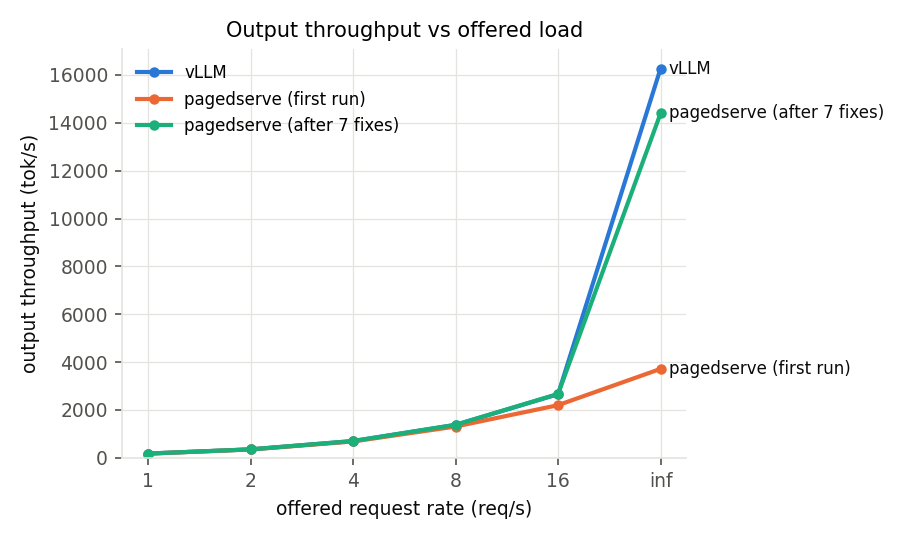
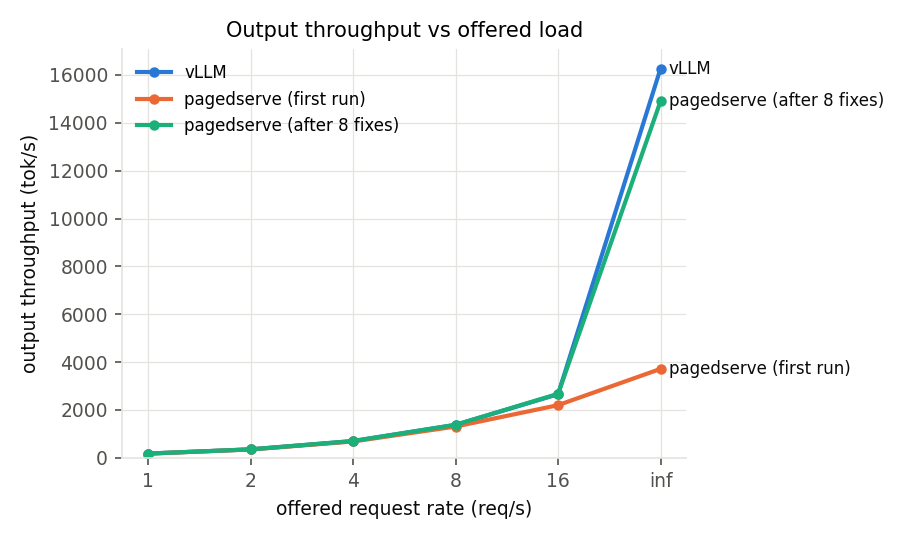
v8 is the default: piecewise CUDA graphs on whenever CUDA graphs are, chunked prefill on at every size with them (eager mixed steps keep the 4 GB rule); Runpod handler mirrors it. README: 14,904 tok/s = 92% of vLLM with lower TPOT and TTFT than vLLM at every offered rate, v8 row in the fix table (ei
Claude-Session: https://claude.ai/code/session_01JS2Me66WkkvXnWKiASyDpV

Changed region(s): [[0.6533, 0.1778, 0.9956, 0.563], [0.6222, 0.5926, 0.6533, 0.6519], [0.3733, 0.2074, 0.4044, 0.237]]

diff --git a/pagedserve/cli.py b/pagedserve/cli.py
@@ -25,16 +25,19 @@ def _add_engine_args(p: argparse.ArgumentParser) -> None:
     p.add_argument("--max-model-len", type=int, default=4096)
     p.add_argument("--enable-prefix-caching", action="store_true")
     p.add_argument("--enable-cuda-graphs", action="store_true")
-    p.add_argument("--piecewise-cuda-graphs", action="store_true",
+    p.add_argument("--piecewise-cuda-graphs", dest="piecewise_cuda_graphs", action="store_true",
+                   default=None,
                    help="also replay prefill / mixed (chunked-prefill) steps from per-layer graphs "
-                        "with attention run eagerly between them (needs --enable-cuda-graphs)")
+                        "with attention run eagerly between them. Default: on whenever "
+                        "--enable-cuda-graphs is (A100, 0.5B: chunked prefill went from -11%% to "
+                        "+4%% at saturation, TTFT at 1 req/s 20 -> 9 ms)")
+    p.add_argument("--no-piecewise-cuda-graphs", dest="piecewise_cuda_graphs", action="store_false")
     p.add_argument("--enable-chunked-prefill", dest="enable_chunked_prefill", action="store_true",
                    default=None,
                    help="mix decode tokens and prompt chunks in every step; --max-num-batched-tokens "
-                        "becomes the per-step cap. Default: on for --device cuda when the checkpoint "
-                        "is >= 4 GB (about 2B params; +8%% at 7B), off below that (mixed steps run "
-                        "eagerly, and at 0.5B that cost 11%% at saturation); 2048-token cap unless "
-                        "--max-num-batched-tokens is given")
+                        "becomes the per-step cap. Default: on for --device cuda (with piecewise CUDA "
+                        "graphs it wins at every model size measured: +8%% at 7B, +4%% at 0.5B), off "
+                        "otherwise; 2048-token cap unless --max-num-batched-tokens is given")
     p.add_argument("--no-chunked-prefill", dest="enable_chunked_prefill", action="store_false")
     p.add_argument("--async-scheduling", dest="async_scheduling", action="store_true", default=None,
                    help="launch step N+1 before reading step N's tokens back (vLLM v1 style): the "
@@ -43,9 +46,6 @@ def _add_engine_args(p: argparse.ArgumentParser) -> None:
                         "token. Default: on for --device cuda (A100: 0.5B saturation 13,945 -> "
                         "14,394 tok/s, TPOT at 1 req/s 2.1 -> 1.8 ms), off otherwise")
     p.add_argument("--no-async-scheduling", dest="async_scheduling", action="store_false")
-
-
-CHUNKED_PREFILL_MIN_BYTES = 4 * 1024 ** 3  # checkpoint size above which chunked prefill is the default
 
 
 def checkpoint_bytes(model_dir: str | None) -> int:
@@ -60,12 +60,16 @@ def checkpoint_bytes(model_dir: str | None) -> int:
 
 def engine_config_from_args(args: argparse.Namespace) -> EngineConfig:
     cuda = args.device.startswith("cuda")
+    piecewise = args.piecewise_cuda_graphs
+    if piecewise is None:
+        piecewise = bool(args.enable_cuda_graphs)
     chunked = args.enable_chunked_prefill
     if chunked is None:
-        # Mixed steps run eagerly (no CUDA graphs), so chunked prefill pays only when a
-        # prefill is expensive next to a decode step: measured +8% at 7B (3,092 vs 2,859
-        # tok/s at saturation) and -11% at 0.5B (12,786 vs 14,394) on the A100.
-        chunked = cuda and checkpoint_bytes(args.model) >= CHUNKED_PREFILL_MIN_BYTES
+        # With piecewise graphs a mixed step replays from graphs too, and chunked prefill
+        # wins at every size measured on the A100 (7B: +8%; 0.5B: +4% and half the TTFT).
+        # Without them mixed steps run eagerly, which cost 11% at 0.5B; then it is only
+        # worth it from a few billion parameters up.
+        chunked = cuda and (piecewise or checkpoint_bytes(args.model) >= 4 * 1024 ** 3)
     budget = args.max_num_batched_tokens
     if budget is None:
         budget = 2048 if chunked else 8192
@@ -80,7 +84,7 @@ def engine_config_from_args(args: argparse.Namespace) -> EngineConfig:
                         max_model_len=args.max_model_len, attn_backend=args.attn_backend,
                         enable_prefix_caching=args.enable_prefix_caching,
                         enable_cuda_graphs=args.enable_cuda_graphs,
-                        piecewise_cuda_graphs=bool(getattr(args, "piecewise_cuda_graphs", False)),
+                        piecewise_cuda_graphs=bool(piecewise),
                         enable_chunked_prefill=chunked,
                         async_scheduling=bool(async_sched))
 

diff --git a/deploy/runpod/handler.py b/deploy/runpod/handler.py
@@ -17,8 +17,8 @@ the chunks aggregated (`return_aggregate_stream`).
 Environment (all optional): MODEL_DIR (a snapshot baked into the image; default
 /models/model), MODEL_REPO (download at cold start instead), DTYPE (float16), ATTN_BACKEND
 (paged_flash), BLOCK_SIZE (256), MAX_MODEL_LEN (4096), MAX_NUM_SEQS (256), CUDA_GRAPHS (1),
-CHUNKED_PREFILL (default: on for checkpoints >= 4 GB), ASYNC_SCHEDULING (1), MAX_CONCURRENCY
-(jobs per worker, 64).
+PIECEWISE_CUDA_GRAPHS (1), CHUNKED_PREFILL (default: on with piecewise graphs),
+ASYNC_SCHEDULING (1), MAX_CONCURRENCY (jobs per worker, 64).
 """
 
 from __future__ import annotations
@@ -39,21 +39,18 @@ def env(name: str, default: str) -> str:
 
 
 def engine_config(model_dir: str | None = None) -> EngineConfig:
-    """Same defaults as `pagedserve serve --device cuda`: async scheduling on, chunked
-    prefill on for checkpoints >= 4 GB (CHUNKED_PREFILL=0/1 forces it)."""
-    from pagedserve.cli import CHUNKED_PREFILL_MIN_BYTES, checkpoint_bytes
-
+    """Same defaults as `pagedserve serve --device cuda`: CUDA graphs (full-step for decode,
+    piecewise for prefill / mixed steps), chunked prefill, async scheduling."""
+    graphs = env("CUDA_GRAPHS", "1") == "1"
+    piecewise = env("PIECEWISE_CUDA_GRAPHS", "1") == "1" and graphs
     forced = os.environ.get("CHUNKED_PREFILL")
-    if forced is not None:
-        chunked = forced == "1"
-    else:
-        chunked = checkpoint_bytes(model_dir) >= CHUNKED_PREFILL_MIN_BYTES
+    chunked = forced == "1" if forced is not None else piecewise
     return EngineConfig(
         device="cuda", dtype=EngineConfig.dtype_from_str(env("DTYPE", "float16")),
         attn_backend=env("ATTN_BACKEND", "paged_flash"), block_size=int(env("BLOCK_SIZE", "256")),
         max_model_len=int(env("MAX_MODEL_LEN", "4096")), max_num_seqs=int(env("MAX_NUM_SEQS", "256")),
         max_num_batched_tokens=2048 if chunked else 8192, enable_chunked_prefill=chunked,
-        enable_cuda_graphs=env("CUDA_GRAPHS", "1") == "1",
+        enable_cuda_graphs=graphs, piecewise_cuda_graphs=piecewise,
         async_scheduling=env("ASYNC_SCHEDULING", "1") == "1")
 
 

diff --git a/tests/test_server.py b/tests/test_server.py
@@ -309,13 +309,21 @@ def test_cli_defaults_by_device_and_checkpoint_size(tmp_path):
         return engine_config_from_args(build_parser().parse_args(["serve", "--model", str(tmp_path), *extra]))
 
     (tmp_path / "model.safetensors").write_bytes(b"\0" * 1024)  # a tiny checkpoint
+    # CUDA + graphs: piecewise graphs on, hence chunked prefill on at any size
+    c = cfg("--device", "cuda", "--enable-cuda-graphs")
+    assert c.async_scheduling and c.piecewise_cuda_graphs and c.enable_chunked_prefill
+    assert c.max_num_batched_tokens == 2048
+    # CUDA without graphs: mixed steps would run eagerly, so a tiny checkpoint stays prefill-priority
     c = cfg("--device", "cuda")
-    assert c.async_scheduling and not c.enable_chunked_prefill and c.max_num_batched_tokens == 8192
+    assert c.async_scheduling and not c.piecewise_cuda_graphs and not c.enable_chunked_prefill
+    assert c.max_num_batched_tokens == 8192
     c = cfg("--device", "cpu")
-    assert not c.async_scheduling and not c.enable_chunked_prefill
-    c = cfg("--device", "cuda", "--enable-chunked-prefill", "--no-async-scheduling")
-    assert c.enable_chunked_prefill and c.max_num_batched_tokens == 2048 and not c.async_scheduling
-    # a big checkpoint (sparse file: size without the bytes) turns chunked prefill on
+    assert not c.async_scheduling and not c.enable_chunked_prefill and not c.piecewise_cuda_graphs
+    c = cfg("--device", "cuda", "--enable-cuda-graphs", "--no-piecewise-cuda-graphs", "--no-async-scheduling")
+    assert not c.piecewise_cuda_graphs and not c.enable_chunked_prefill and not c.async_scheduling
+    c = cfg("--device", "cuda", "--enable-chunked-prefill")
+    assert c.enable_chunked_prefill and c.max_num_batched_tokens == 2048
+    # a big checkpoint (sparse file: size without the bytes) turns chunked prefill on even eagerly
     big = tmp_path / "model-00002.safetensors"
     with open(big, "wb") as f:
         f.truncate(5 * 1024 ** 3)

diff --git a/tests/test_runpod_handler.py b/tests/test_runpod_handler.py
@@ -64,6 +64,7 @@ def test_sampling_params_mapping() -> None:
                                  "seed": 7, "stop": "END", "stop_token_ids": [3], "ignore_eos": True})
     assert (sp.max_tokens, sp.temperature, sp.top_p, sp.top_k, sp.seed) == (5, 0.5, 0.9, 40, 7)
     assert sp.stop == ["END"] and sp.stop_token_ids == [3] and sp.ignore_eos
-    cfg = mod.engine_config(None)  # no checkpoint -> small-model defaults
+    cfg = mod.engine_config(None)
     assert cfg.device == "cuda" and cfg.attn_backend == "paged_flash"
-    assert cfg.async_scheduling and not cfg.enable_chunked_prefill
+    assert cfg.async_scheduling and cfg.enable_cuda_graphs and cfg.piecewise_cuda_graphs
+    assert cfg.enable_chunked_prefill

diff --git a/README.md b/README.md
@@ -33,22 +33,22 @@ output median 131), seed 0, same trace for every row. Raw files in `results/`.
 | | RTX 4090 | A100 SXM 80 GB |
 |---|---:|---:|
 | naive per-sequence cache, 8 req/s | 343 tok/s | |
-| paged_flash + CUDA graphs, 8 req/s | 1,441 tok/s, TPOT p50 3.8 ms | 1,380 tok/s, TPOT p50 2.2 ms (HTTP) |
-| paged_flash + CUDA graphs, all 200 at t=0 | 5,459 tok/s (in-process) | **14,394 tok/s** (HTTP, engine process + async scheduling) |
+| paged_flash + CUDA graphs, 8 req/s | 1,441 tok/s, TPOT p50 3.8 ms | 1,381 tok/s, TPOT p50 2.0 ms (HTTP) |
+| paged_flash + CUDA graphs, all 200 at t=0 | 5,459 tok/s (in-process) | **14,904 tok/s** (HTTP, engine process, async scheduling, chunked prefill on piecewise graphs) |
 | vLLM, same trace, same GPU, 8 req/s | | 1,377 tok/s, TPOT p50 2.1 ms |
 | vLLM, all 200 at t=0 | | 16,269 tok/s |
 | Triton decode kernel vs flash-attn, B=128 / ctx 2048 | 4.2x slower (first version) | **1.16x** slower (835 vs 972 GB/s) |
 | KV-cache slot utilization, block 16 vs 256 | | **98% vs 76%** |
 
-Against vLLM on the A100 with Qwen2.5-0.5B: throughput parity to 16 req/s (100%), TPOT
-*below* vLLM's at 1 req/s (1.8 vs 2.0 ms) and at saturation (6.6 vs 8.1 ms), 88% of its
-saturation throughput, up from 23% at the first measurement the same night. At 7B
-(Qwen2.5-7B-Instruct) both engines sit on the weight-read floor and pagedserve reaches 97%
-of vLLM at saturation once chunked prefill is on; DeepSeek-R1-Distill-Llama-8B runs on the
-same code, and Moonlight-16B-A3B (DeepSeek-V3's latent attention + MoE) reaches 84% with a
-batch-1 step of 6.2 ms against vLLM's 7.1 ms TPOT. The [gap analysis](#the-gap-against-vllm)
-has the per-phase profile and the seven fixes it drove, in order; [Models](#models) has the
-per-model table.
+Against vLLM on the A100 with Qwen2.5-0.5B: throughput parity to 16 req/s (100%), lower
+latency than vLLM at every offered rate (TPOT 1.8 vs 2.0 ms and TTFT 9.4 vs 12.9 ms at
+1 req/s; TPOT 6.0 vs 8.1 ms at saturation), 92% of its saturation throughput, up from 23% at
+the first measurement the same night. At 7B (Qwen2.5-7B-Instruct) both engines sit on the
+weight-read floor and pagedserve reaches 97% of vLLM at saturation once chunked prefill is
+on; DeepSeek-R1-Distill-Llama-8B runs on the same code, and Moonlight-16B-A3B (DeepSeek-V3's
+latent attention + MoE) reaches 84% with a batch-1 step of 6.2 ms against vLLM's 7.1 ms
+TPOT. The [gap analysis](#the-gap-against-vllm) has the per-phase profile and the eight
+fixes it drove, in order; [Models](#models) has the per-model table.
 
 ## How it works
 
@@ -82,8 +82,8 @@ blocks, the youngest running request is preempted by recompute (blocks freed,
 `num_computed_tokens` reset, back to the front of the queue). Outputs are identical with or
 without preemption; that is a test.
 
-With `--enable-chunked-prefill` (Sarathi-Serve / vLLM style; the default on CUDA for
-checkpoints of ~2B parameters and up) a step is instead **mixed**: one
+With `--enable-chunked-prefill` (Sarathi-Serve / vLLM style; the default on CUDA) a step
+is instead **mixed**: one
 decode token for every running request whose prefill is done, plus as many prompt tokens as
 fit in the remaining `max_num_batched_tokens` (mid-prefill requests first, then new ones). A
 long prompt is split across steps, so it no longer stalls every decoder's TPOT for one long
@@ -194,9 +194,10 @@ each decoder layer is three pieces, `pre` (input norm + residual add, projection
 `attend` (the kernel, eager on the real rows with the step's real metadata) and `post`
 (output projection, post norm, MLP); `pre` and `post` are row-wise, so they replay from
 per-layer graphs on rows padded up to a token bucket, and padded rows never reach the KV
-cache. A mixed step is then two replays plus the attention launches per layer. CPU-tested
-against the eager forward for both model families; the A100 measurement is pending, so it
-is off by default.
+cache. A mixed step is then two replays plus the attention launches per layer. On the A100
+it turned chunked prefill at 0.5B from an 11% loss into a 4% gain (14,904 tok/s) and halved
+TTFT at low load (9.4 ms vs 19.8 eager, vLLM 12.9), so it is the default whenever CUDA
+graphs are on, and chunked prefill is the default at every model size.
 
 ## Correctness
 
@@ -286,24 +287,24 @@ the kernel. Chunked prefill changes nothing at 0.5B, where a prefill is ~8 ms; a
 ### A100, pagedserve over HTTP vs vLLM (`results/vllm.json`, `results/pagedserve_*.json`)
 
 Same load generator, same trace, same GPU, both servers fp16 with `max_model_len 4096`.
-pagedserve: `paged_flash`, block 256, CUDA graphs, engine in its own process, async
-scheduling, prefill-priority (`results/pagedserve_flash_v7b.json`). vLLM from its own venv,
-defaults.
+pagedserve with its CUDA defaults: `paged_flash`, block 256, CUDA graphs (full-step for
+decode, piecewise for prefill and mixed steps), chunked prefill, engine in its own process,
+async scheduling (`results/pagedserve_flash_v8.json`). vLLM from its own venv, defaults.
 
 | req/s offered | vLLM tok/s | pagedserve tok/s | vLLM TTFT p50 | pagedserve TTFT p50 | vLLM TPOT p50/p99 | pagedserve TPOT p50/p99 |
 |---:|---:|---:|---:|---:|---:|---:|
-| 1 | 177 | 177 | 12.9 ms | 19.8 ms | 2.0 / 2.3 | **1.8** / 2.2 |
-| 2 | 354 | 354 | 11.9 | 18.2 | 2.0 / 2.2 | **1.9** / 2.2 |
-| 4 | 701 | 702 | 11.6 | 17.1 | 2.1 / 2.2 | **2.0** / 2.5 |
-| 8 | 1,377 | 1,380 | 12.0 | 17.1 | 2.1 / 2.3 | 2.2 / 2.8 |
-| 16 | 2,659 | 2,669 | 12.0 | 18.3 | 2.2 / 2.4 | 2.5 / 3.3 |
-| all at t=0 | **16,269** | **14,394** | 421 | 560 | 8.1 / 12.8 | **6.6** / 12.1 |
+| 1 | 177 | 177 | 12.9 ms | **9.4** ms | 2.0 / 2.3 | **1.8** / 2.1 |
+| 2 | 354 | 354 | 11.9 | **10.0** | 2.0 / 2.2 | **1.8** / 2.1 |
+| 4 | 701 | 702 | 11.6 | **11.0** | 2.1 / 2.2 | **1.9** / 2.1 |
+| 8 | 1,377 | 1,381 | 12.0 | **11.5** | 2.1 / 2.3 | **2.0** / 2.2 |
+| 16 | 2,659 | 2,673 | 12.0 | 12.4 | 2.2 / 2.4 | **2.1** / 2.5 |
+| all at t=0 | **16,269** | **14,904** | 421 | 543 | 8.1 / 12.8 | **6.0** / **8.7** |
 
 ![throughput vs offered load](results/plots/throughput_vs_rate.png)
 ![TPOT vs offered load](results/plots/tpot_vs_rate.png)
 
-(`results/pagedserve_flash_final.json` is the v7b run; regenerate the figures with
-`python -m pagedserve.bench.plot results/vllm.json results/pagedserve_flash.json results/pagedserve_flash_final.json --labels "vLLM,pagedserve (first run),pagedserve (after 7 fixes)" --ablation results/ablation_a100.json`.)
+(`results/pagedserve_flash_final.json` is the v8 run; regenerate the figures with
+`python -m pagedserve.bench.plot results/vllm.json results/pagedserve_flash.json results/pagedserve_flash_final.json --labels "vLLM,pagedserve (first run),pagedserve (after 8 fixes)" --ablation results/ablation_a100.json`.)
 
 Rates 1–8 are latency comparisons (throughput equals offered load for both); 16 and the
 saturation row compare capacity. The `paged_triton` server at block 16 matched these to
@@ -337,17 +338,15 @@ The same night, in order, each fix chosen from the profile and re-measured over 
 | `d82393e` | **a 3.9 ms forward at batch 1 inside a CUDA graph**: graphs remove launch overhead, but every kernel still costs 3–4 us of GPU time and the model ran ~42 per layer (unfused RMSNorm is 8 on its own). Fused `qkv_proj` / `gate_up_proj` weights, decoder in (hidden, residual) form, Triton RMSNorm+residual, RoPE and SiLU-mul: ~13 kernels per layer | 8,356 | 4.2 |
 | `3805000` | **per-step host->device traffic and per-request decode calls**: six small `torch.tensor(..., device=cuda)` copies plus a per-row block-table build became two pinned copies; two `tokenizer.decode` calls per request became two Rust `decode_batch` calls per step | 10,584 | 3.9 |
 | `94bdca3` | **the server and the engine shared one GIL**: at 200 streams the in-process step was 6.1 ms but 10.2 ms seen through the server, because SSE delivery and the step loop serialized on the interpreter lock. The engine core now runs in its own process (`--engine-process`, default on CUDA): token ids cross a pipe, the API process keeps the tokenizer, batched detokenization and stop strings, and the two overlap | 13,945 | 3.1 |
-| `02d44f5` | **the GPU idled while Python built the next step**: the remaining per-sequence CPU in the core (0.5 ms of input building and 1.2 ms of postprocessing at batch 200) sat on the critical path. Async scheduling (vLLM v1's trick, `--async-scheduling`, default on CUDA): step N+1 is scheduled, packed and launched before step N's tokens are read back; decode rows gather their token from the previous step's sampled tensor on the device; the read-back goes through a pinned buffer whose copy was enqueued before the next launch; length limits are anticipated so no token is wasted | **14,394** | 2.5 |
+| `02d44f5` | **the GPU idled while Python built the next step**: the remaining per-sequence CPU in the core (0.5 ms of input building and 1.2 ms of postprocessing at batch 200) sat on the critical path. Async scheduling (vLLM v1's trick, `--async-scheduling`, default on CUDA): step N+1 is scheduled, packed and launched before step N's tokens are read back; decode rows gather their token from the previous step's sampled tensor on the device; the read-back goes through a pinned buffer whose copy was enqueued before the next launch; length limits are anticipated so no token is wasted | 14,394 | 2.5 |
+| `1942991` | **prefill and mixed steps ran eagerly**: the full-step graph needs fixed shapes, so chunked prefill (the scheduling that closed the 7B gap) *cost* 11% here (12,786 tok/s), ~20 Python launches per layer on every step that carried a prompt. Piecewise CUDA graphs (`--piecewise-cuda-graphs`, default on): every layer's projections, norms and MLP replay from per-layer graphs on token buckets, attention runs eagerly on the real rows between them, so a chunked step is two replays plus the attention launches per layer. Chunked prefill is now the default at every size, and the prefill step itself got cheaper: TTFT at 1 req/s 20 → 9 ms | **14,904** | 2.1 |
 
-What is left: 88% of vLLM's saturation throughput with a lower TPOT (6.6 vs 8.1 ms) and a
-higher TTFT (560 vs 421 ms), which is a scheduling choice: vLLM's chunked prefill admits
-prompts in smaller pieces so first tokens come out earlier and every decoder pays for it.
-pagedserve has the same mode, and it is the default from ~2B parameters up (+8% at 7B),
-but at 0.5B a mixed step runs eagerly while a pure decode step replays a CUDA graph, and
-that costs 11% at saturation (12,786 vs 14,394 tok/s); piecewise graphs for mixed steps
-are the fix. The batch-1 forward at 1.9 ms sits within ~2x of the weight-read floor (~1 GB
-of fp16 weights plus the 272 MB `lm_head` per step on a 1.5 TB/s part); at 7B the forward
-*is* the floor.
+What is left: 92% of vLLM's saturation throughput, with lower TPOT (6.0 vs 8.1 ms p50,
+8.7 vs 12.8 p99) and a higher TTFT there (543 vs 421 ms): with all 200 prompts arriving at
+once, vLLM's scheduler admits them in more, smaller pieces than the 2048-token cap here and
+starts more streams earlier. Below saturation pagedserve is now ahead on every metric. The
+batch-1 forward at 1.9 ms sits within ~2x of the weight-read floor (~1 GB of fp16 weights
+plus the 272 MB `lm_head` per step on a 1.5 TB/s part); at 7B the forward *is* the floor.
 
 ### Moonlight: MLA + MoE on the A100
 
@@ -429,7 +428,7 @@ prompt ids drawn from each model's own vocabulary.
 
 | model | arch | golden vs HF | batch-1 forward | weight-read floor | saturation tok/s, pagedserve / vLLM | TPOT p50 @ 8 req/s |
 |---|---|---|---:|---:|---:|---:|
-| Qwen2.5-0.5B-Instruct | qwen2, 24L, GQA 14/2, D=64 | exact (fp32), all tokens (fp16) | 1.9 ms | ~0.9 ms | **14,394 / 16,269 (88%)** | 2.2 / 2.1 ms |
+| Qwen2.5-0.5B-Instruct | qwen2, 24L, GQA 14/2, D=64 | exact (fp32), all tokens (fp16) | 1.9 ms | ~0.9 ms | **14,904 / 16,269 (92%)** | **2.0** / 2.1 ms |
 | Qwen2.5-7B-Instruct | qwen2, 28L, GQA 28/4, D=128 | all tokens (fp16) | 10.1 ms | ~10 ms | **3,092 / 3,188 (97%)** | 13.2 / 10.6 ms |
 | DeepSeek-R1-Distill-Llama-8B | llama (3.1), 32L, GQA 32/8, D=128, llama3 rope | all tokens (fp16) | 10.8 ms | ~11 ms | 2,519 / 2,823 (89%) ¹ | 19.0 / 12.2 ms ¹ |
 | Moonshot Moonlight-16B-A3B-Instruct | deepseek_v3, 27L, MLA (kv_lora 512 + rope 64), 64 experts top-6 + 2 shared, 3B active | all tokens (bf16; 2–3 tie-breaks inside noise, both paths) | 6.2 ms ² | ~3 ms (3B active + 0.7 GB lm_head) | **2,697 / 3,223 (84%)** ³ | 18.8 / 13.4 ms ³ |
@@ -552,7 +551,7 @@ deploy/runpod/         Serverless worker (handler.py), Dockerfile, deploy notes
 
 ## Roadmap
 
-* Piecewise CUDA graphs for mixed steps: implemented (`--piecewise-cuda-graphs`), A100 measurement pending; if it removes the 11% chunked-prefill cost at 0.5B, chunked prefill becomes the default everywhere.
+* Close the last 8% at 0.5B saturation: TTFT there is 543 vs 421 ms, a matter of how many prompt pieces are admitted per step at the very start of a burst (a smaller first chunk, or vLLM-style prefill token budgeting).
 * Moonlight: close the remaining gap at batch 1 (per-kernel profile: `scripts/profile_step.py --kernels 1,128`).
 * Chunked-prefill ablation on a long-prompt trace.
 * Hosted-API footnote (DeepSeek, Kimi via OpenRouter) through `--base-url`.

diff --git a/README_GPU.md b/README_GPU.md
@@ -32,14 +32,16 @@ time; `nvidia-smi --query-gpu=memory.used --format=csv` should read ~0 MiB befor
 
 ## Serving defaults on CUDA
 
-`pagedserve serve --device cuda` defaults to the engine in its own process
-(`--engine-process`; `--no-engine-process` for the single-process path), async scheduling
-(`--no-async-scheduling` to compare), and chunked prefill with a 2048-token per-step cap for
-checkpoints of 4 GB and up (`--enable-chunked-prefill` / `--no-chunked-prefill` to force;
-`--max-num-batched-tokens 512` for a tighter TPOT tail at ~6% throughput). All measured on
-the A100: the process split took Qwen2.5-0.5B from 10.6k to 13.9k tok/s at saturation and
-async scheduling to 14.4k; chunked prefill took Qwen2.5-7B from 89% to 97% of vLLM but
-costs 11% at 0.5B, where an eager mixed step loses to a graph-replayed decode step.
+`pagedserve serve --device cuda --enable-cuda-graphs` defaults to the engine in its own
+process (`--no-engine-process` for the single-process path), async scheduling
+(`--no-async-scheduling`), piecewise CUDA graphs for prefill and mixed steps
+(`--no-piecewise-cuda-graphs`), and chunked prefill with a 2048-token per-step cap
+(`--no-chunked-prefill`; `--max-num-batched-tokens 512` for a tighter TPOT tail at ~6%
+throughput). All measured on the A100 with Qwen2.5-0.5B: the process split took
+saturation from 10.6k to 13.9k tok/s, async scheduling to 14.4k, chunked prefill on
+piecewise graphs to 14.9k (chunked prefill on *eager* mixed steps was 12.8k, which is why
+without `--enable-cuda-graphs` chunked prefill defaults on only for checkpoints of 4 GB and
+up). At 7B chunked prefill took the engine from 89% to 97% of vLLM.
 
 ### Async scheduling A/B
 
@@ -59,16 +61,17 @@ parity with and without graphs first.
 
 ### Piecewise CUDA graphs A/B
 
-`--piecewise-cuda-graphs` (with `--enable-cuda-graphs`) replays prefill and mixed steps
-from per-layer graphs with attention eager in between (README, "CUDA graphs"). GPU parity
-tests first, then the 0.5B chunked sweep against `pagedserve_flash_v7.json` (12,786 tok/s,
-chunked without piecewise) and `_v7b.json` (14,394, prefill-priority):
+`--piecewise-cuda-graphs` replays prefill and mixed steps from per-layer graphs with
+attention eager in between (README, "CUDA graphs"); default on with `--enable-cuda-graphs`.
+The A/B that made it the default: `pagedserve_flash_v7.json` (chunked, eager mixed steps:
+12,786 tok/s), `_v7b.json` (prefill-priority: 14,394), `_v8.json` (chunked on piecewise
+graphs: 14,904, TTFT at 1 req/s 9.4 ms). To repeat it:
 
 ```bash
 python -m pytest tests/test_cuda_graphs_gpu.py tests/test_mla_triton_gpu.py -q -k piecewise
 python -m pagedserve.bench.run_vllm_baseline --server pagedserve --model models/Qwen2.5-0.5B-Instruct --dtype float16 \
-  --max-model-len 4096 --server-args "--device cuda --attn-backend paged_flash --block-size 256 --enable-cuda-graphs --enable-chunked-prefill --piecewise-cuda-graphs" \
-  --rates 1,2,4,8,16,inf --trace-n 200 --name pagedserve_flash_v8
+  --max-model-len 4096 --server-args "--device cuda --attn-backend paged_flash --block-size 256 --enable-cuda-graphs" \
+  --rates 1,2,4,8,16,inf --trace-n 200 --name pagedserve_flash_v8      # add --no-piecewise-cuda-graphs for the other arm
 ```
 
 ## DeepSeek / Moonlight checkpoints
